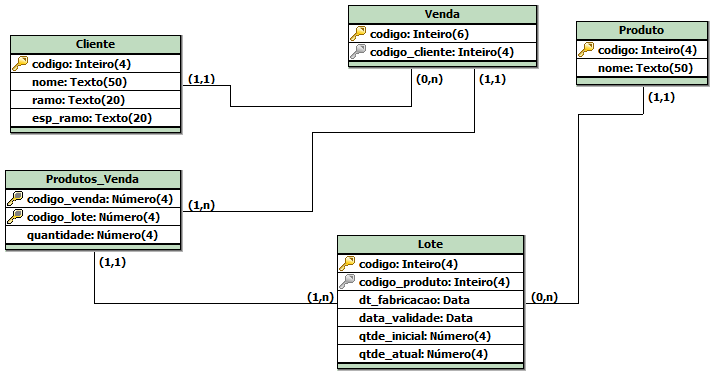
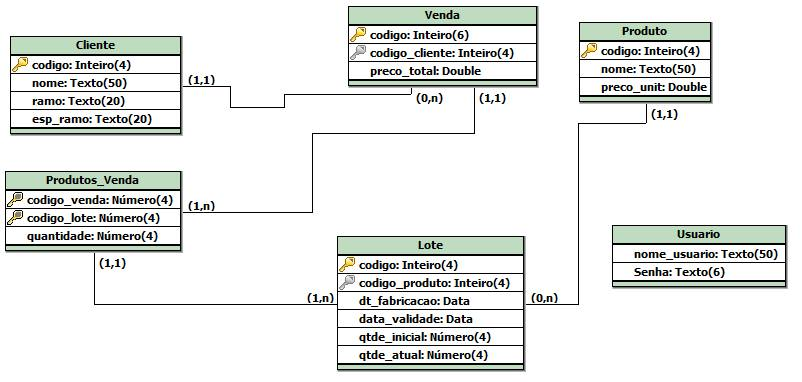
produtos e vendas com valor

diff --git a/web/js/main.js b/web/js/main.js
@@ -22,9 +22,12 @@ $(document).ready(function () {
     });
     
     $(".BotaoAdd").click(function () {
-        var cod = $(this).parent().prev().prev().prev().html();
+        var cod = $(this).parent().prev().prev().prev().prev().html();
         var qtde = $(this).prev().val();
-        var nome = $(this).parent().prev().prev().html();
+        var nome = $(this).parent().prev().prev().prev().html();
+        var aux = $(this).parent().prev().prev().html().split(' ');
+        var preco = parseFloat(aux[1]);
+        var total = parseFloat($('#total').html());
         var app;
         
         var max = $(this).prev().attr("max");
@@ -38,14 +41,24 @@ $(document).ready(function () {
                 data.trim();
                 var arr = data.split('#');
                 if(arr.length == 5){
-                    app = "<tr class='gradeA'><td>"+cod+"</td><td>"+nome+"</td><td>"+arr[4]+"</td><td>"+arr[1]+"</td><td>"+arr[2]+"</td><td>"+arr[3]+"</td></tr>";
+                    app = "<tr class='gradeA'><td>"+cod+"</td><td>"+nome+"</td><td>"+arr[4]+"</td><td>"+arr[1]+"</td><td>"+arr[2]+"</td><td>"+arr[3]+"</td><td>"+(preco*parseFloat(arr[4]))+"</td></tr>";
+                    total = total + (preco*parseFloat(arr[4]));
+                    $('#total').html(total);
+                    $('#flagTotal').val(total);
                 }else{
                     i = 1;
                     while(i < arr.length){
-                        if((i+4) >= arr.length )
-                            app = app + "<tr class='gradeA'><td>"+cod+"</td><td>"+nome+"</td><td>"+qtde+"</td><td>"+arr[i]+"</td><td>"+arr[i+1]+"</td><td>"+arr[i+2]+"</td></tr>";
-                        else
-                            app = app + "<tr class='gradeA'><td>"+cod+"</td><td>"+nome+"</td><td>"+arr[i+3]+"</td><td>"+arr[i]+"</td><td>"+arr[i+1]+"</td><td>"+arr[i+2]+"</td></tr>";
+                        if((i+4) >= arr.length ) {
+                            app = app + "<tr class='gradeA'><td>"+cod+"</td><td>"+nome+"</td><td>"+qtde+"</td><td>"+arr[i]+"</td><td>"+arr[i+1]+"</td><td>"+arr[i+2]+"</td><td>"+(preco*parseFloat(qtde))+"</td></tr>";
+                            total = total + (preco*parseFloat(qtde));
+                            $('#total').html(total);
+                            $('#flagTotal').val(total);
+                        } else {
+                            app = app + "<tr class='gradeA'><td>"+cod+"</td><td>"+nome+"</td><td>"+arr[i+3]+"</td><td>"+arr[i]+"</td><td>"+arr[i+1]+"</td><td>"+arr[i+2]+"</td><td>"+(preco*parseFloat(arr[i+3]))+"</td></tr>";
+                            total = total + (preco*parseFloat(arr[i+3]));
+                            $('#total').html(total);
+                            $('#flagTotal').val(total);
+                        }
                         qtde = qtde-arr[i+3];
                         i = i+4;
                     }
@@ -112,6 +125,7 @@ $(document).ready(function () {
         var cli = $('#SelCliente').val();
         var lotes = "";
         var quantidade = "";
+        var total = $('#flagTotal').val();
         
         var apontador = $('#TabelaVenda').children().next().children();
         while(apontador.children().length > 0){
@@ -134,6 +148,7 @@ $(document).ready(function () {
             '<input type="hidden" name="cliente" value="'+cli+'">' +
             '<input type="hidden" name="quantidade" value="'+quantidade+'">' +
             '<input type="hidden" name="lotes" value="'+lotes+'">' +
+            '<input type="hidden" name="total" value="'+total+'">' +
             '</form>').submit();
         
 //        $.ajax({

diff --git a/src/java/persistence/VendaDAO.java b/src/java/persistence/VendaDAO.java
@@ -28,7 +28,7 @@ public class VendaDAO {
         List<Lote> lotes = new ArrayList<>();
         LoteDAO lotedao = new LoteDAO();
         
-        String sql = "select c.codigo as CodigoCliente, c.nome as NomeCliente, c.ramo, c.esp_ramo, v.codigo as CodigoVenda from cliente c, venda v where c.codigo = v.codigo_cliente;";
+        String sql = "select c.codigo as CodigoCliente, c.nome as NomeCliente, c.ramo, c.esp_ramo, v.codigo as CodigoVenda, v.preco_total as Valor from cliente c, venda v where c.codigo = v.codigo_cliente;";
 
         try {
             PreparedStatement p = c.prepareStatement(sql);
@@ -50,6 +50,8 @@ public class VendaDAO {
                 
                 v.setLotes(lotedao.buscaLotesVenda(v.getCodigo()));
                 lista.add(v);
+                
+                v.setPreco_total(resultado.getDouble("valor"));
 
             }
             p.close();
@@ -68,7 +70,7 @@ public class VendaDAO {
         List<Lote> lotes = new ArrayList<>();
         LoteDAO lotedao = new LoteDAO();
         
-        String sql = "select c.codigo as CodigoCliente, c.nome as NomeCliente, c.ramo, c.esp_ramo, v.codigo as CodigoVenda from cliente c, venda v where c.codigo = v.codigo_cliente AND v.codigo =" + codigo;
+        String sql = "select c.codigo as CodigoCliente, c.nome as NomeCliente, c.ramo, c.esp_ramo, v.codigo as CodigoVenda, v.preco_total as Valor from cliente c, venda v where c.codigo = v.codigo_cliente AND v.codigo =" + codigo;
 
         try {
             PreparedStatement p = c.prepareStatement(sql);
@@ -86,6 +88,8 @@ public class VendaDAO {
                 v.setCliente(cli);
                 
                 v.setLotes(lotedao.buscaLotesVenda(v.getCodigo()));
+                
+                v.setPreco_total(resultado.getDouble("valor"));
             }
             p.close();
             System.out.println("busca realizada com sucesso");
@@ -115,7 +119,7 @@ public class VendaDAO {
             else 
                 codigo_venda = Integer.parseInt(cd)+1;
             
-            sql = "INSERT INTO venda VALUES ("+codigo_venda+","+cli.getCodigo()+")";
+            sql = "INSERT INTO venda VALUES ("+codigo_venda+","+cli.getCodigo()+","+venda.getPreco_total()+")";
             ps.executeUpdate(sql);
             
             sql = "INSERT INTO produtos_venda VALUES ";

diff --git a/src/java/persistence/ProdutoDAO.java b/src/java/persistence/ProdutoDAO.java
@@ -22,10 +22,10 @@ public class ProdutoDAO {
     private Connection c = ConnectionFactory.getConexao();
 
     public List<Produto> buscaTodos() {
-        String sql = "select l.codigo_produto, p.nome, sum(qtde_atual) as qtdetotal\n" +
+        String sql = "select l.codigo_produto, p.nome, sum(qtde_atual) as qtdetotal, p.preco_unit as preco\n" +
                     "	from lote l, produto p\n" +
                     "	where l.codigo_produto = p.codigo and l.dt_validade > current_date\n" +
-                    "	group by l.codigo_produto, p.nome\n" +
+                    "	group by l.codigo_produto, p.nome, p.preco_unit\n" +
                     "	order by l.codigo_produto";
         List<Produto> lista = new ArrayList<>();
         
@@ -39,6 +39,7 @@ public class ProdutoDAO {
                 prod.setCodigo(resultado.getInt("codigo_produto"));
                 prod.setNome(resultado.getString("nome"));
                 prod.setQuantidade(Integer.parseInt(resultado.getString("qtdetotal")));
+                prod.setPreco_unit(resultado.getDouble("preco"));
                 lista.add(prod);
             }
             p.close();
@@ -63,6 +64,7 @@ public class ProdutoDAO {
             while (resultado.next()) {
                 prod.setCodigo(resultado.getInt("codigo"));
                 prod.setNome(resultado.getString("nome"));
+                prod.setPreco_unit(resultado.getDouble("preco_unit"));
             }
             
             p.close();

diff --git a/src/java/control/ServletVendas.java b/src/java/control/ServletVendas.java
@@ -45,7 +45,8 @@ public class ServletVendas extends HttpServlet {
             int cliente = Integer.parseInt(request.getParameter("cliente"));
             String lotes = request.getParameter("lotes");
             String quantidade = request.getParameter("quantidade");
-            salvaVenda(request, response, cliente, lotes, quantidade);
+            Double total = Double.parseDouble(request.getParameter("total"));
+            salvaVenda(request, response, cliente, lotes, quantidade, total);
         }
     }
     
@@ -62,7 +63,7 @@ public class ServletVendas extends HttpServlet {
         rd.forward(request, response);
     }
     
-    private void salvaVenda(HttpServletRequest request, HttpServletResponse response, int cli, String lot, String quantidade) throws ServletException, IOException{
+    private void salvaVenda(HttpServletRequest request, HttpServletResponse response, int cli, String lot, String quantidade, Double total) throws ServletException, IOException{
         
         Venda venda = new Venda();
         Cliente cliente = new Cliente();
@@ -82,6 +83,7 @@ public class ServletVendas extends HttpServlet {
             lotes.add(lote);
         }        
         venda.setLotes(lotes);
+        venda.setPreco_total(total);
         
         int cod_venda = vendadao.salva(venda);
         

diff --git a/src/java/persistence/LoteDAO.java b/src/java/persistence/LoteDAO.java
@@ -22,7 +22,7 @@ public class LoteDAO {
     private Connection c = ConnectionFactory.getConexao();
 
     public List<Lote> buscaLotesVenda(int codigo) {
-        String sql = "SELECT l.codigo, p.codigo as codigo_produto, p.nome, pv.quantidade, l.dt_fabricacao, l.dt_validade FROM produtos_venda pv, lote l, produto p WHERE l.codigo = pv.codigo_lote AND l.codigo_produto = p.codigo AND pv.codigo_venda ="+codigo;
+        String sql = "SELECT l.codigo, p.codigo as codigo_produto, p.nome, p.preco_unit, pv.quantidade, l.dt_fabricacao, l.dt_validade FROM produtos_venda pv, lote l, produto p WHERE l.codigo = pv.codigo_lote AND l.codigo_produto = p.codigo AND pv.codigo_venda ="+codigo;
         List<Lote> lista = new ArrayList<>();
 
         try {
@@ -36,6 +36,7 @@ public class LoteDAO {
                 l.setCodigo(resultado.getInt("codigo"));
                 pro.setCodigo(resultado.getInt("codigo_produto"));
                 pro.setNome(resultado.getString("nome"));
+                pro.setPreco_unit(resultado.getDouble("preco_unit"));
                 l.setProduto(pro);
                 l.setDt_fabricacao(resultado.getDate("dt_fabricacao"));
                 l.setDt_validade(resultado.getDate("dt_validade"));

diff --git a/src/java/model/Produto.java b/src/java/model/Produto.java
@@ -9,13 +9,12 @@ package model;
  *
  * @author daniel
  */
-public class Produto {
-
-    
+public class Produto {    
     
     private int codigo;
     private String nome;
     private int quantidade;
+    private Double preco_unit;
     
     //metodos
     
@@ -41,5 +40,13 @@ public class Produto {
 
     public void setQuantidade(int quantidade) {
         this.quantidade = quantidade;
+    }
+
+    public Double getPreco_unit() {
+        return preco_unit;
+    }
+
+    public void setPreco_unit(Double preco_unit) {
+        this.preco_unit = preco_unit;
     }
 }

diff --git a/src/java/model/Venda.java b/src/java/model/Venda.java
@@ -16,6 +16,7 @@ public class Venda {
     private int codigo;  
     private Cliente cliente;
     private List<Lote> lotes; 
+    private Double preco_total;
 
     public Cliente getCliente() {
         return cliente;
@@ -40,6 +41,12 @@ public class Venda {
     public void setLotes(List<Lote> lotes) {
         this.lotes = lotes;
     }
-   
-    
+
+    public Double getPreco_total() {
+        return preco_total;
+    }
+
+    public void setPreco_total(Double preco_total) {
+        this.preco_total = preco_total;
+    }
 }
